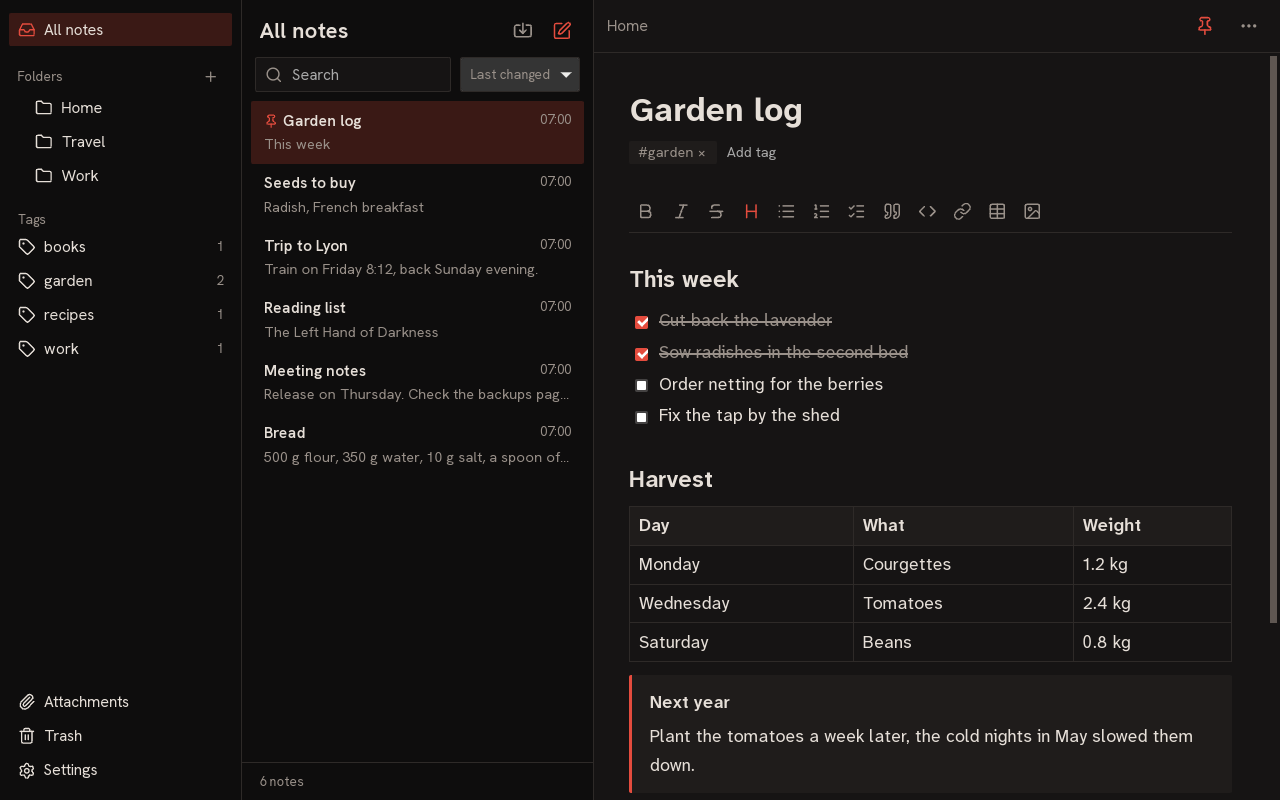
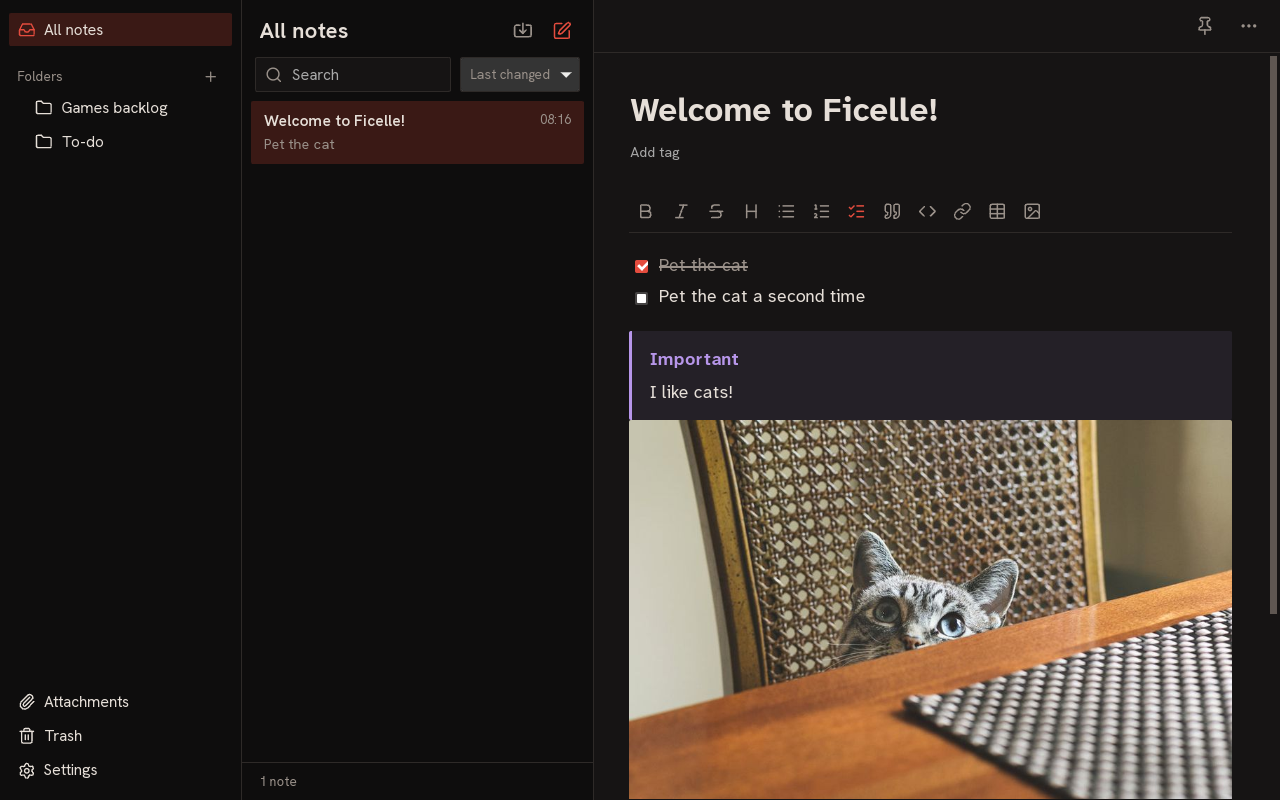
use the new screenshots

diff --git a/src/App.svelte b/src/App.svelte
@@ -56,14 +56,14 @@
     <img
       class="desktop"
       src="{base}screens/desktop.png"
-      alt="Ficelle on a computer, a note with headings, a task list and a table, beside the list of notes"
+      alt="Ficelle on a computer, a note with a checklist, a callout and a picture of a cat, beside the list of notes"
       width="1280"
       height="800"
     />
     <img
       class="phone"
       src="{base}screens/phone.png"
-      alt="Ficelle on a phone, the list of notes"
+      alt="The same note on a phone"
       width="1080"
       height="2400"
     />
